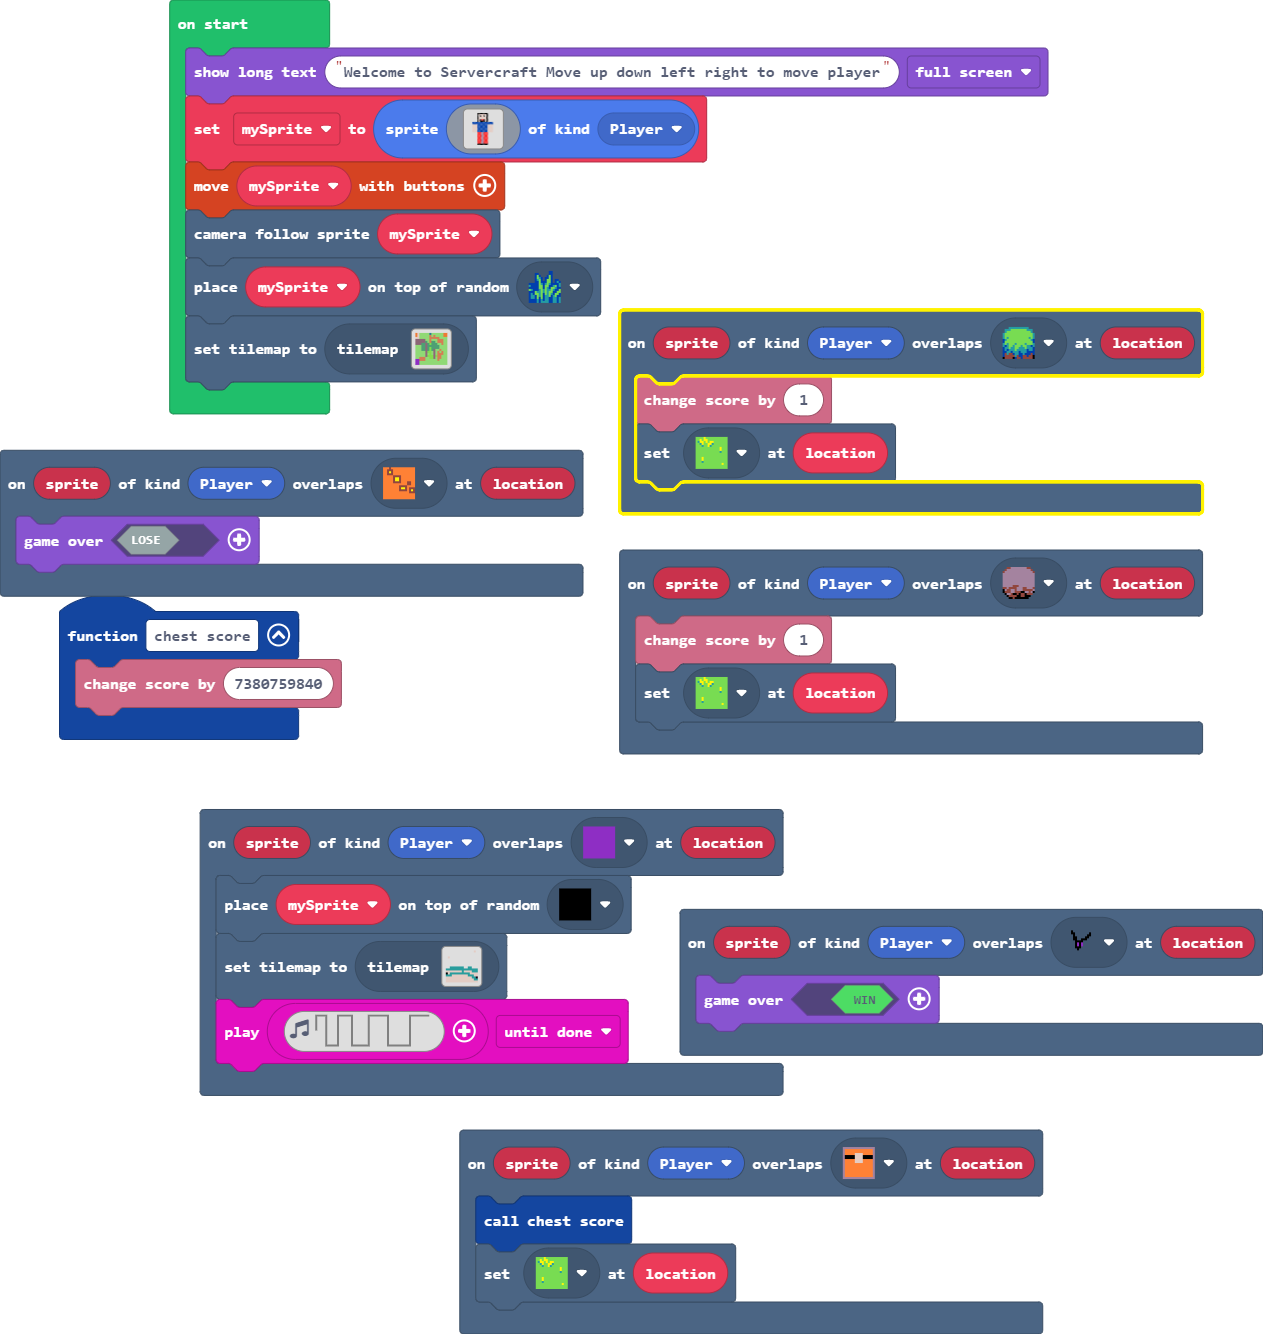
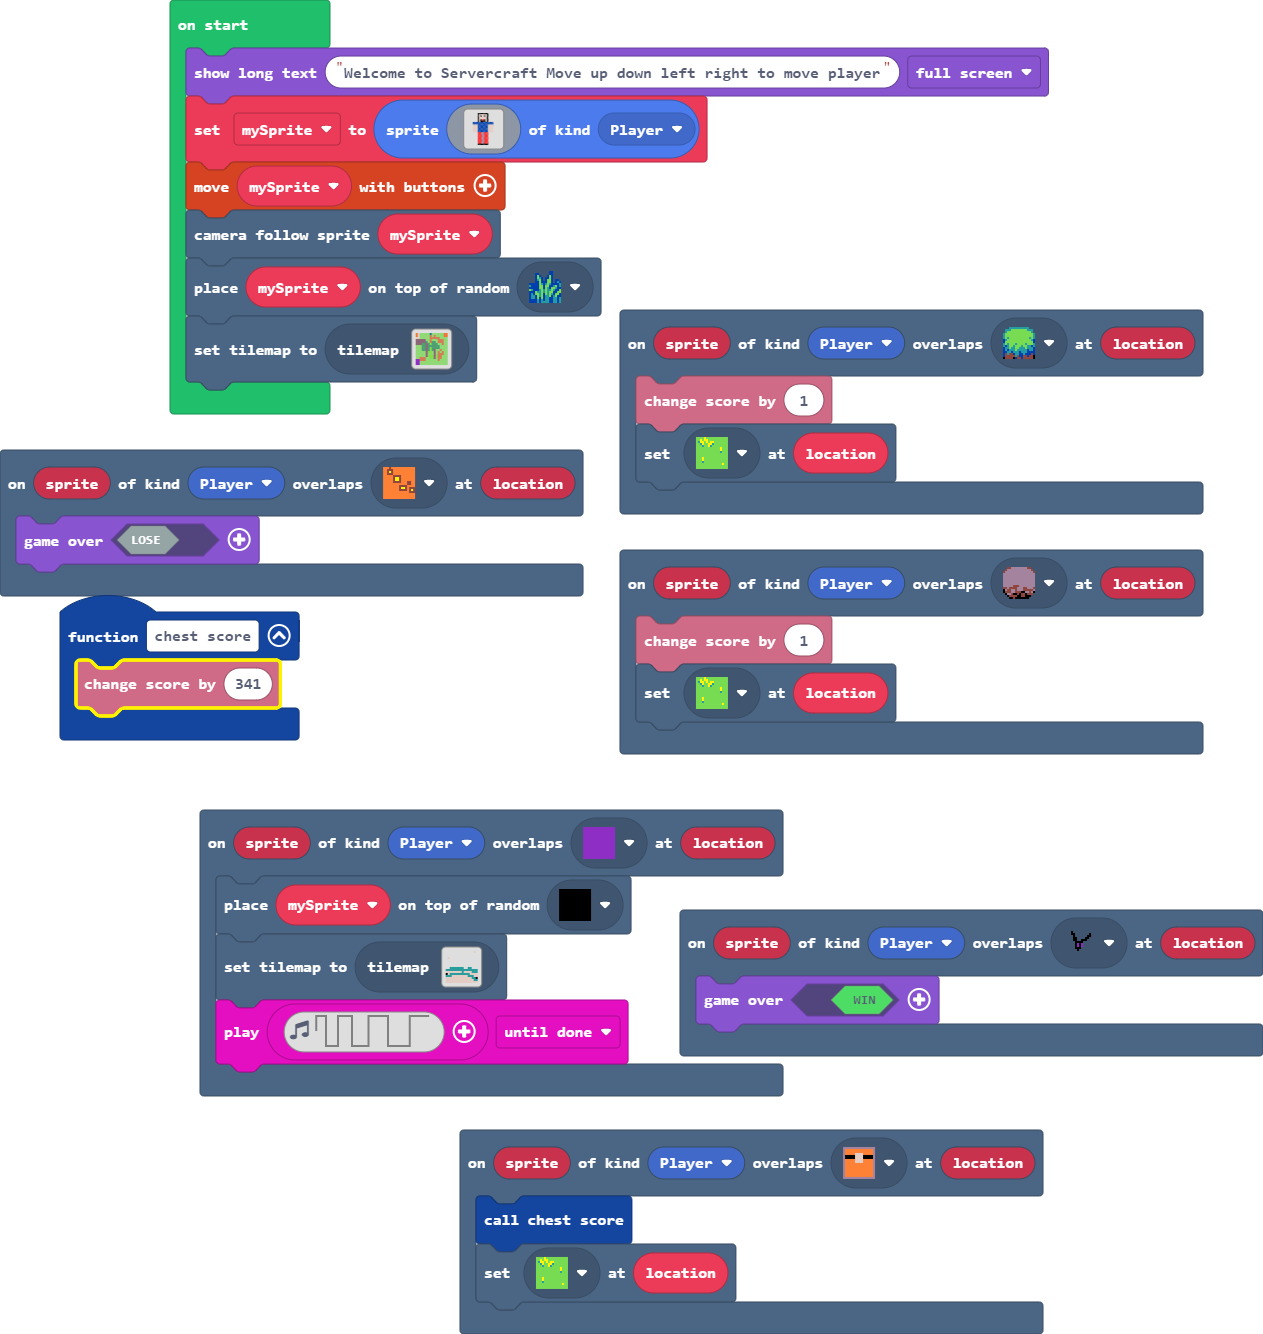
Update pxt.json, main.blocks, main.ts

diff --git a/main.ts b/main.ts
@@ -9,7 +9,7 @@ scene.onOverlapTile(SpriteKind.Player, assets.tile`lava`, function (sprite, loca
     game.over(false)
 })
 function chest_score () {
-    info.changeScoreBy(7380759840)
+    info.changeScoreBy(341)
 }
 scene.onOverlapTile(SpriteKind.Player, sprites.builtin.forestTiles4, function (sprite, location) {
     info.changeScoreBy(1)
